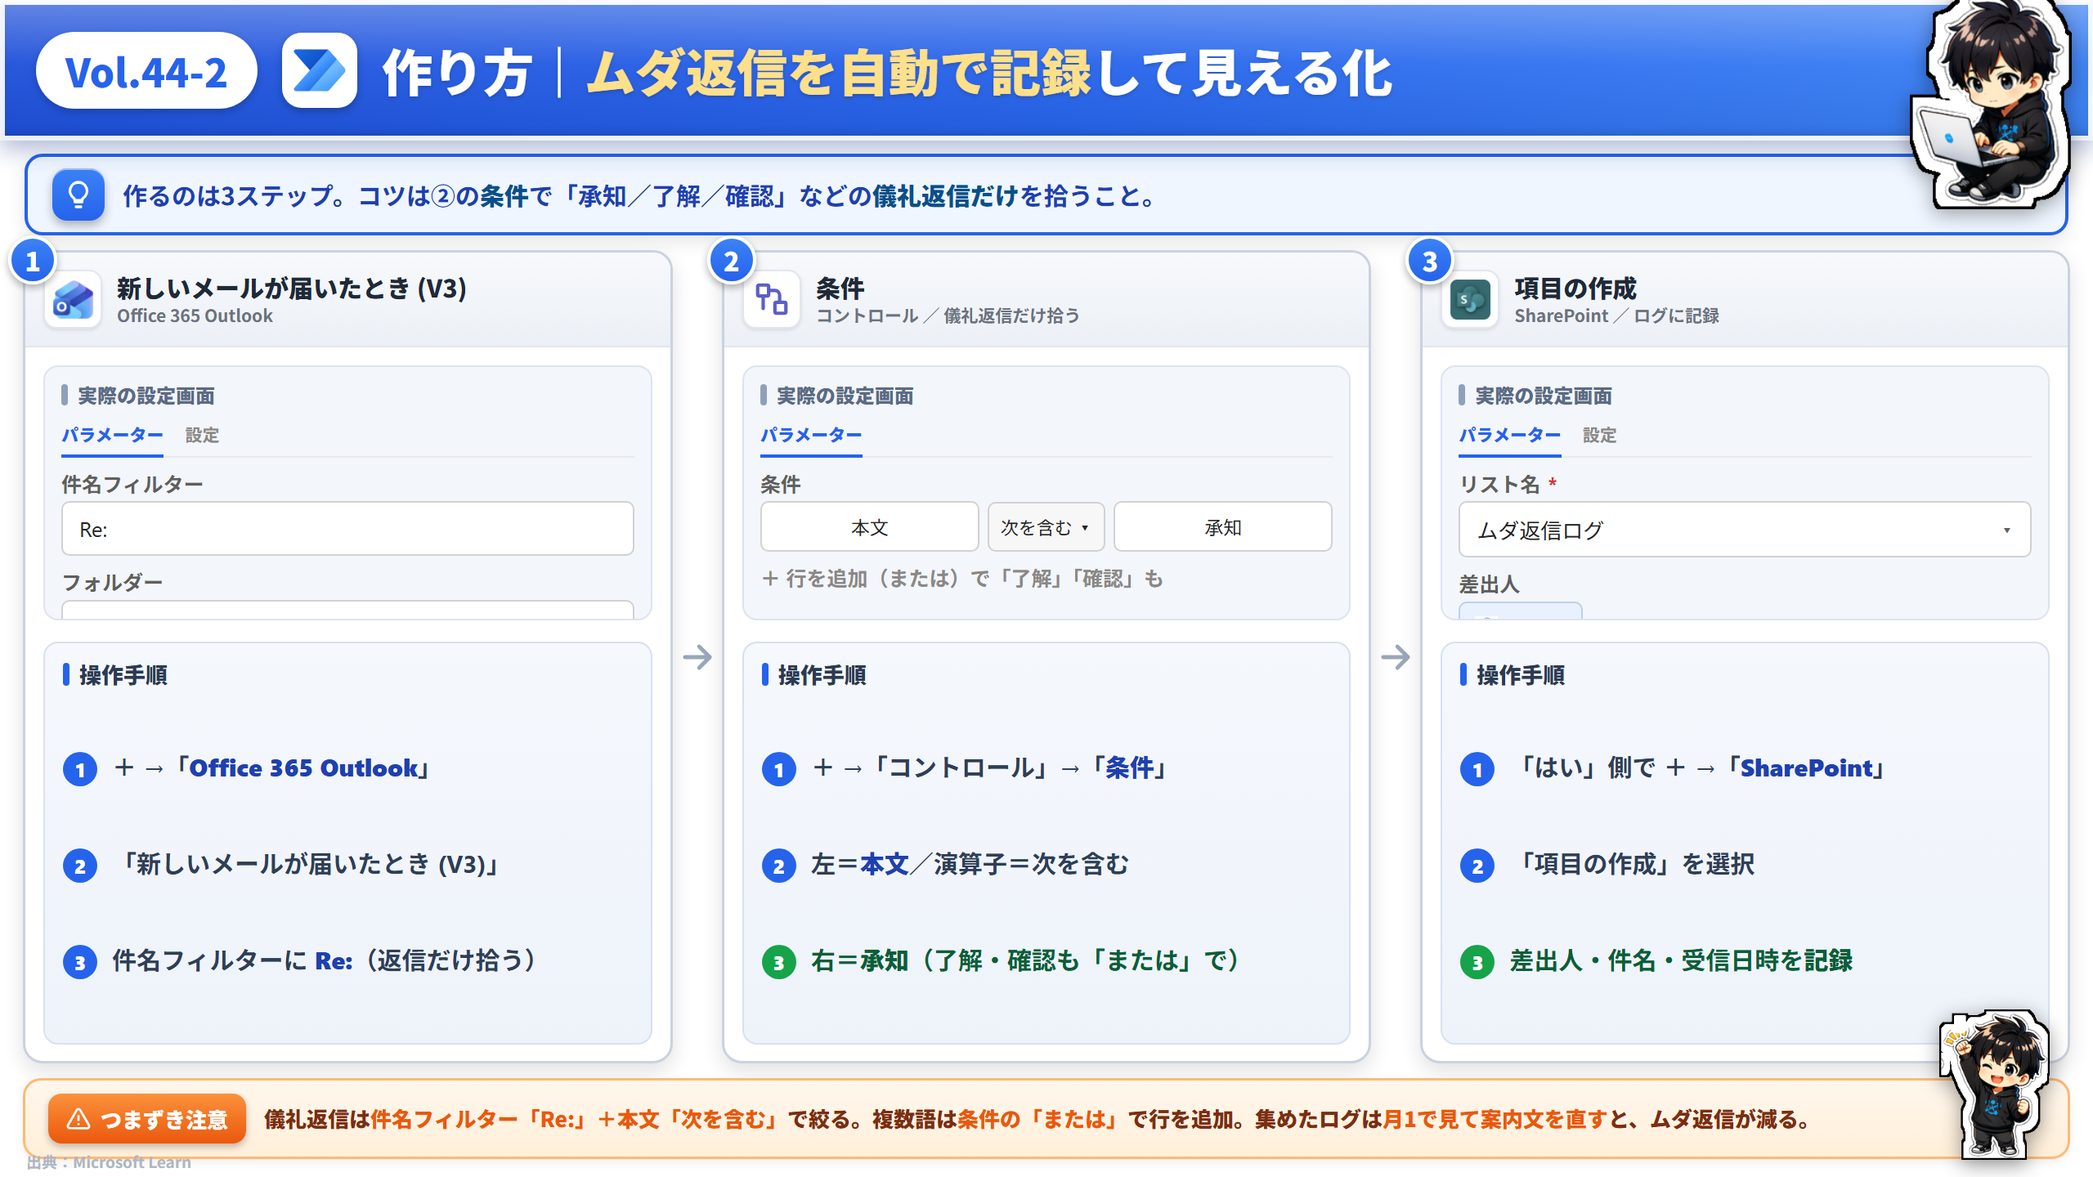
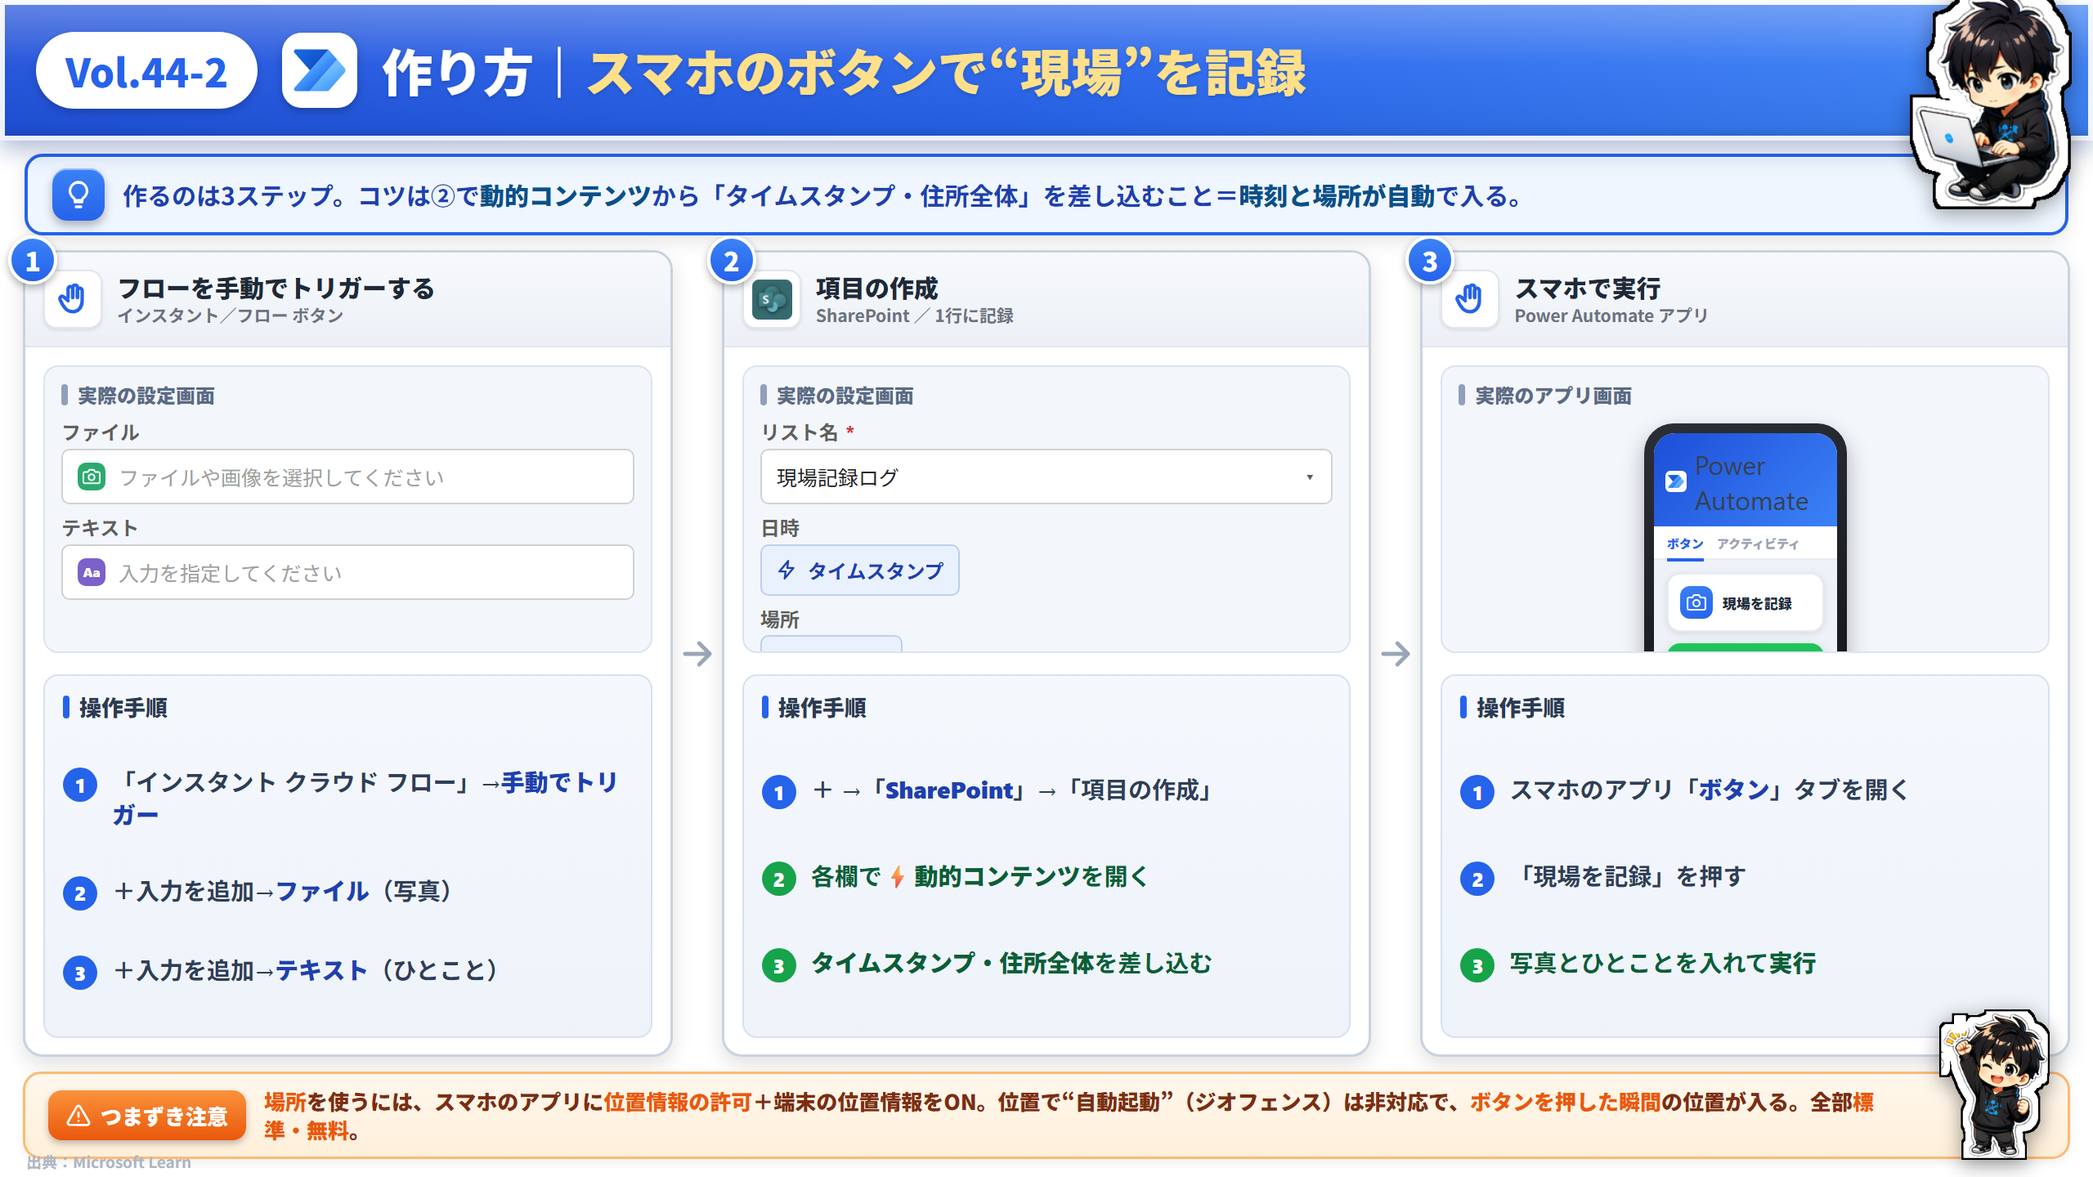
vol-44/44b スライドPNG再生成・vol-17 微修正を反映

diff --git a/assets/x/html/vol-44b/index.html b/assets/x/html/vol-44b/index.html
@@ -3,7 +3,7 @@
 <head>
 <meta charset="UTF-8">
 <meta name="viewport" content="width=1280, initial-scale=1">
-<title>X技術Tips Vol.44-2 ムダ返信を記録して見える化｜作り方</title>
+<title>X技術Tips Vol.44-2 スマホのボタンで現場記録｜作り方</title>
 <link rel="preconnect" href="https://fonts.googleapis.com">
 <link rel="preconnect" href="https://fonts.gstatic.com" crossorigin>
 <link href="https://fonts.googleapis.com/css2?family=Noto+Sans+JP:wght@400;500;700;900&display=swap" rel="stylesheet">
@@ -40,36 +40,48 @@
   .ch{display:flex;align-items:center;gap:9px;padding:9px 11px;min-height:58px;background:linear-gradient(180deg,#F7F9FC,#ECF0F6);border-bottom:1px solid #E1E6EF;}
   .ch .sq{flex:0 0 auto;width:36px;height:36px;border-radius:8px;background:#fff;border:1px solid #E1E6EF;display:flex;align-items:center;justify-content:center;overflow:hidden;box-shadow:0 1px 2px rgba(0,0,0,.1);}
   .ch .sq img{width:26px;height:26px;object-fit:contain;}
-  .ch .sq svg{width:23px;height:23px;color:#5B5FC7;}
+  .ch .sq svg{width:23px;height:23px;color:#2563EB;}
   .ch .nm{font-weight:900;font-size:15px;color:var(--ink);line-height:1.18;}
   .ch .nm small{display:block;font-weight:700;font-size:10.5px;color:var(--weak);margin-top:2px;}
 
   .cp{flex:1;font-family:'Segoe UI','Noto Sans JP',sans-serif;padding:9px 11px 10px;display:flex;flex-direction:column;gap:10px;}
-  .ptop{flex:0 0 156px;display:flex;flex-direction:column;gap:8px;overflow:hidden;background:#F3F6FB;border:1px solid #DCE4F0;border-radius:9px;padding:8px 10px;margin-top:2px;}
+  .ptop{flex:0 0 176px;display:flex;flex-direction:column;gap:7px;overflow:hidden;background:#F3F6FB;border:1px solid #DCE4F0;border-radius:9px;padding:8px 10px;margin-top:2px;}
   .sect{display:flex;align-items:center;gap:6px;font-size:12px;font-weight:900;color:#5A6B85;}
   .sect::before{content:"";width:4px;height:13px;border-radius:2px;background:#8FA0BC;}
-  .cptab{display:flex;gap:13px;border-bottom:1px solid #EAEAEA;padding-bottom:5px;}
-  .cptab span{font-size:10.5px;color:#8A8886;font-weight:600;}
-  .cptab span.on{color:#2563EB;font-weight:800;border-bottom:2px solid #2563EB;padding-bottom:5px;margin-bottom:-6px;}
   .fld{display:flex;flex-direction:column;gap:3px;}
-  .fld .l{font-size:12.5px;color:#605E5C;font-weight:700;line-height:1.25;}
+  .fld .l{font-size:12px;color:#605E5C;font-weight:700;line-height:1.2;}
   .fld .l .req{color:#D13438;margin-left:1px;}
-  .fld .v{border:1px solid #D1D1D1;border-radius:5px;padding:7px 10px;font-size:13px;color:#242424;background:#fff;display:flex;align-items:center;justify-content:space-between;gap:8px;}
-  .fld .v .cr{flex:0 0 auto;color:#605E5C;font-weight:900;font-size:10px;}
-  .fld .v .gr{flex:0 0 auto;width:14px;height:14px;color:#8A8886;}
+  .fld .v{border:1px solid #D1D1D1;border-radius:5px;padding:7px 9px;font-size:12.5px;color:#242424;background:#fff;display:flex;align-items:center;gap:8px;}
+  .fld .v .cr{margin-left:auto;flex:0 0 auto;color:#605E5C;font-weight:900;font-size:10px;}
   .fld .v.ph{color:#A19F9D;}
+  .fld .v .fi{flex:0 0 auto;width:17px;height:17px;border-radius:5px;display:flex;align-items:center;justify-content:center;color:#fff;padding:3px;}
+  .fld .v .fi.g{background:#2BAA6E;} .fld .v .fi.p{background:#7B61C9;}
   .dyn{display:inline-flex;align-items:center;gap:6px;background:#EAF1FE;border:1px solid #BBD0EE;border-radius:5px;padding:6px 9px;font-size:12px;font-weight:700;color:#1E40AF;align-self:flex-start;}
   .dyn img{width:14px;height:14px;object-fit:contain;}
-  /* 条件UI */
-  .cond{display:flex;align-items:center;gap:5px;}
-  .cond .cv{flex:1;border:1px solid #D1D1D1;border-radius:5px;padding:6px 7px;font-size:11.5px;color:#242424;background:#fff;text-align:center;min-width:0;}
-  .cond .cop{flex:0 0 auto;border:1px solid #D1D1D1;border-radius:5px;padding:6px 7px;font-size:11px;color:#242424;background:#F7F7F7;white-space:nowrap;}
+  .dyn svg{width:13px;height:13px;}
+
+  /* スマホ画面（列3） */
+  .miniphone{align-self:center;width:124px;height:158px;background:linear-gradient(160deg,#2B2F36,#15171B);border-radius:18px;padding:6px;box-shadow:0 6px 14px rgba(0,0,0,.3);position:relative;margin-top:2px;}
+  .miniphone .mscr{width:100%;height:100%;background:#EEF2F8;border-radius:13px;overflow:hidden;display:flex;flex-direction:column;}
+  .mtop{background:linear-gradient(135deg,#1D4ED8,#3B82F6);padding:8px 7px 6px;display:flex;align-items:center;gap:5px;}
+  .mtop img{width:13px;height:13px;object-fit:contain;background:#fff;border-radius:3px;padding:1px;}
+  .mtop span{color:#fff;font-weight:900;font-size:8px;}
+  .mtab{display:flex;gap:8px;padding:5px 8px 4px;background:#fff;border-bottom:1px solid #E7EBF1;}
+  .mtab span{font-size:7.5px;font-weight:800;color:#9AA3B0;}
+  .mtab span.on{color:#2563EB;border-bottom:2px solid #2563EB;padding-bottom:4px;margin-bottom:-6px;}
+  .mbody{flex:1;padding:8px 8px;display:flex;flex-direction:column;gap:7px;}
+  .mcard{background:#fff;border-radius:8px;padding:7px;box-shadow:0 1px 4px rgba(0,0,0,.1);display:flex;align-items:center;gap:6px;border:1px solid #E7EBF1;}
+  .mcard .mi{flex:0 0 auto;width:20px;height:20px;border-radius:6px;background:linear-gradient(160deg,#3B82F6,#2563EB);color:#fff;display:flex;align-items:center;justify-content:center;padding:4px;}
+  .mcard .mt{font-weight:900;font-size:8.5px;color:var(--ink);}
+  .mrun{background:linear-gradient(180deg,#22C55E,#16A34A);color:#fff;border-radius:8px;padding:8px;text-align:center;font-weight:900;font-size:9px;box-shadow:0 3px 7px rgba(22,163,74,.4);display:flex;align-items:center;justify-content:center;gap:4px;position:relative;}
+  .mrun svg{width:11px;height:11px;}
+  .mrun .mh{position:absolute;right:2px;bottom:-9px;width:22px;height:22px;}
 
   .howsteps{flex:1;margin-top:3px;background:linear-gradient(180deg,#F5F8FD,#EEF3FA);border:1px solid #D7E1F0;border-radius:9px;padding:9px 11px;display:flex;flex-direction:column;gap:7px;}
   .howsteps .hh{display:flex;align-items:center;gap:6px;font-size:13.5px;font-weight:900;color:#2B3A52;}
   .howsteps .hh::before{content:"";width:4px;height:14px;border-radius:2px;background:#2563EB;}
   .howsteps ol{list-style:none;display:flex;flex-direction:column;justify-content:space-evenly;flex:1;gap:7px;}
-  .howsteps li{display:flex;gap:9px;align-items:flex-start;font-size:15px;font-weight:700;color:#2F3E57;line-height:1.36;}
+  .howsteps li{display:flex;gap:9px;align-items:flex-start;font-size:14.5px;font-weight:700;color:#2F3E57;line-height:1.36;}
   .howsteps li .sn{flex:0 0 auto;width:21px;height:21px;border-radius:50%;background:#2563EB;color:#fff;font-size:12px;font-weight:900;display:flex;align-items:center;justify-content:center;margin-top:1px;}
   .howsteps li b{color:#1E40AF;}
   .howsteps li.key{color:#0B5E37;} .howsteps li.key .sn{background:#16A34A;} .howsteps li.key b{color:#0B5E37;}
@@ -91,7 +103,12 @@ const ICON={
  bulb:'<path d="M9 18h6"/><path d="M10 22h4"/><path d="M12 2a7 7 0 0 0-4 12.7c.6.5 1 1.3 1 2.1h6c0-.8.4-1.6 1-2.1A7 7 0 0 0 12 2z"/>',
  warn:'<path d="M10.3 3.3 1.8 18a2 2 0 0 0 1.7 3h17a2 2 0 0 0 1.7-3L13.7 3.3a2 2 0 0 0-3.4 0z"/><path d="M12 9v4M12 17h.01"/>',
  arrow:'<path d="M5 12h14M13 6l6 6-6 6"/>',
- cond:'<rect x="3" y="3" width="7" height="7" rx="1"/><rect x="14" y="14" width="7" height="7" rx="1"/><path d="M10 6.5h4a3 3 0 0 1 3 3v4.5M6.5 10v8"/>'
+ tap:'<path d="M9 11V5.5a1.5 1.5 0 0 1 3 0V11"/><path d="M12 11V4.5a1.5 1.5 0 0 1 3 0V11"/><path d="M15 11V6.5a1.5 1.5 0 0 1 3 0V13c0 3.5-2 7-6 7s-5-2.5-6.5-4.5L4 12.5a1.5 1.5 0 0 1 2.5-1.7L9 13"/>',
+ cam:'<path d="M23 19a2 2 0 0 1-2 2H3a2 2 0 0 1-2-2V8a2 2 0 0 1 2-2h4l2-3h6l2 3h4a2 2 0 0 1 2 2z"/><circle cx="12" cy="13" r="4"/>',
+ zap:'<path d="M13 2 3 14h7l-1 8 10-12h-7l1-8z"/>',
+ clock:'<circle cx="12" cy="12" r="9"/><path d="M12 7v5l3 2"/>',
+ pin:'<path d="M12 22s8-5.7 8-12a8 8 0 1 0-16 0c0 6.3 8 12 8 12z"/><circle cx="12" cy="10" r="3"/>',
+ hand:'<path d="M9 11V5.5a1.5 1.5 0 0 1 3 0V11"/><path d="M12 11V4.5a1.5 1.5 0 0 1 3 0V11"/><path d="M15 11V6.5a1.5 1.5 0 0 1 3 0V13c0 3.5-2 7-6 7s-5-2.5-6.5-4.5L4 12.5a1.5 1.5 0 0 1 2.5-1.7L9 13"/>'
 };
 const svg=(n)=>`<svg class="ic" viewBox="0 0 24 24" fill="none" stroke="currentColor" stroke-width="2.2" stroke-linecap="round" stroke-linejoin="round">${ICON[n]}</svg>`;
 
@@ -100,33 +117,32 @@ s.innerHTML=`
   <div class="titlebar">
     <div class="vol-pill">Vol.44-2</div>
     <img class="vol-logo" src="${A}icons/pa_logo.png" alt="">
-    <div class="title-text">作り方｜<span class="hl">ムダ返信を自動で記録</span>して見える化</div>
+    <div class="title-text">作り方｜<span class="hl">スマホのボタンで“現場”を記録</span></div>
     <img class="title-chara" src="${A}chara/chara_laptop.png" alt="">
   </div>
 
   <div class="concl">
     <div class="chip">${svg('bulb')}</div>
-    <div class="txt">作るのは3ステップ。コツは②の<b>条件</b>で「承知／了解／確認」などの<b>儀礼返信だけ</b>を拾うこと。</div>
+    <div class="txt">作るのは3ステップ。コツは②で<b>動的コンテンツ</b>から「タイムスタンプ・住所全体」を差し込むこと＝<b>時刻と場所が自動</b>で入る。</div>
   </div>
 
   <div class="cols">
     <div class="col">
       <div class="cnum">1</div>
       <div class="colcard">
-        <div class="ch"><span class="sq"><img src="${A}icons/pa_outlook.png" alt=""></span><span class="nm">新しいメールが届いたとき (V3)<small>Office 365 Outlook</small></span></div>
+        <div class="ch"><span class="sq">${svg('tap')}</span><span class="nm">フローを手動でトリガーする<small>インスタント／フロー ボタン</small></span></div>
         <div class="cp">
           <div class="ptop">
             <div class="sect">実際の設定画面</div>
-            <div class="cptab"><span class="on">パラメーター</span><span>設定</span></div>
-            <div class="fld"><span class="l">件名フィルター</span><span class="v"><span>Re:</span></span></div>
-            <div class="fld"><span class="l">フォルダー</span><span class="v"><span>受信トレイ</span><span class="cr">▾</span></span></div>
+            <div class="fld"><span class="l">ファイル</span><span class="v ph"><span class="fi g">${svg('cam')}</span>ファイルや画像を選択してください</span></div>
+            <div class="fld"><span class="l">テキスト</span><span class="v ph"><span class="fi p" style="font-size:8px;font-weight:900;">Aa</span>入力を指定してください</span></div>
           </div>
           <div class="howsteps">
             <div class="hh">操作手順</div>
             <ol>
-              <li><span class="sn">1</span><span>＋ →「<b>Office 365 Outlook</b>」</span></li>
-              <li><span class="sn">2</span><span>「新しいメールが届いたとき (V3)」</span></li>
-              <li><span class="sn">3</span><span>件名フィルターに <b>Re:</b>（返信だけ拾う）</span></li>
+              <li><span class="sn">1</span><span>「インスタント クラウド フロー」→<b>手動でトリガー</b></span></li>
+              <li><span class="sn">2</span><span>＋入力を追加→<b>ファイル</b>（写真）</span></li>
+              <li><span class="sn">3</span><span>＋入力を追加→<b>テキスト</b>（ひとこと）</span></li>
             </ol>
           </div>
         </div>
@@ -138,22 +154,20 @@ s.innerHTML=`
     <div class="col">
       <div class="cnum">2</div>
       <div class="colcard">
-        <div class="ch"><span class="sq">${svg('cond')}</span><span class="nm">条件<small>コントロール ／ 儀礼返信だけ拾う</small></span></div>
+        <div class="ch"><span class="sq"><img src="${A}icons/pa_sharepoint.png" alt=""></span><span class="nm">項目の作成<small>SharePoint ／ 1行に記録</small></span></div>
         <div class="cp">
           <div class="ptop">
             <div class="sect">実際の設定画面</div>
-            <div class="cptab"><span class="on">パラメーター</span></div>
-            <div class="fld"><span class="l">条件</span>
-              <div class="cond"><span class="cv">本文</span><span class="cop">次を含む ▾</span><span class="cv">承知</span></div>
-            </div>
-            <div class="fld"><span class="l" style="color:#8A8886;">＋ 行を追加（または）で「了解」「確認」も</span></div>
+            <div class="fld"><span class="l">リスト名 <span class="req">*</span></span><span class="v"><span>現場記録ログ</span><span class="cr">▾</span></span></div>
+            <div class="fld"><span class="l">日時</span><span class="dyn">${svg('zap')}タイムスタンプ</span></div>
+            <div class="fld"><span class="l">場所</span><span class="dyn">${svg('zap')}住所全体</span></div>
           </div>
           <div class="howsteps">
             <div class="hh">操作手順</div>
             <ol>
-              <li><span class="sn">1</span><span>＋ →「コントロール」→「<b>条件</b>」</span></li>
-              <li><span class="sn">2</span><span>左＝<b>本文</b>／演算子＝次を含む</span></li>
-              <li class="key"><span class="sn">3</span><span>右＝<b>承知</b>（了解・確認も「または」で）</span></li>
+              <li><span class="sn">1</span><span>＋ →「<b>SharePoint</b>」→「項目の作成」</span></li>
+              <li class="key"><span class="sn">2</span><span>各欄で⚡<b>動的コンテンツ</b>を開く</span></li>
+              <li class="key"><span class="sn">3</span><span><b>タイムスタンプ・住所全体</b>を差し込む</span></li>
             </ol>
           </div>
         </div>
@@ -165,20 +179,29 @@ s.innerHTML=`
     <div class="col">
       <div class="cnum">3</div>
       <div class="colcard">
-        <div class="ch"><span class="sq"><img src="${A}icons/pa_sharepoint.png" alt=""></span><span class="nm">項目の作成<small>SharePoint ／ ログに記録</small></span></div>
+        <div class="ch"><span class="sq" style="color:#16A34A;">${svg('tap')}</span><span class="nm">スマホで実行<small>Power Automate アプリ</small></span></div>
         <div class="cp">
-          <div class="ptop">
-            <div class="sect">実際の設定画面</div>
-            <div class="cptab"><span class="on">パラメーター</span><span>設定</span></div>
-            <div class="fld"><span class="l">リスト名 <span class="req">*</span></span><span class="v"><span>ムダ返信ログ</span><span class="cr">▾</span></span></div>
-            <div class="fld"><span class="l">差出人</span><span class="dyn"><img src="${A}icons/pa_outlook.png" alt="">差出人</span></div>
+          <div class="ptop" style="align-items:stretch;">
+            <div class="sect">実際のアプリ画面</div>
+            <div class="miniphone">
+              <div class="mscr">
+                <div class="mtop"><img src="${A}icons/pa_logo.png" alt="">Power Automate</div>
+                <div class="mtab"><span class="on">ボタン</span><span>アクティビティ</span></div>
+                <div class="mbody">
+                  <div class="mcard"><span class="mi">${svg('cam')}</span><span class="mt">現場を記録</span></div>
+                  <div class="mrun">${svg('zap')}実行
+                    <svg class="mh" viewBox="0 0 24 24" fill="#FFD54A" stroke="#7A4A00" stroke-width="1.5" stroke-linecap="round" stroke-linejoin="round">${ICON.hand}</svg>
+                  </div>
+                </div>
+              </div>
+            </div>
           </div>
           <div class="howsteps">
             <div class="hh">操作手順</div>
             <ol>
-              <li><span class="sn">1</span><span>「はい」側で ＋ →「<b>SharePoint</b>」</span></li>
-              <li><span class="sn">2</span><span>「項目の作成」を選択</span></li>
-              <li class="key"><span class="sn">3</span><span>差出人・件名・受信日時を<b>記録</b></span></li>
+              <li><span class="sn">1</span><span>スマホのアプリ「<b>ボタン</b>」タブを開く</span></li>
+              <li><span class="sn">2</span><span>「現場を記録」を押す</span></li>
+              <li class="key"><span class="sn">3</span><span>写真とひとことを入れて<b>実行</b></span></li>
             </ol>
           </div>
         </div>
@@ -188,7 +211,7 @@ s.innerHTML=`
 
   <div class="pitfall">
     <div class="pl">${svg('warn')}つまずき注意</div>
-    <div class="px">儀礼返信は<b>件名フィルター「Re:」＋本文「次を含む」</b>で絞る。複数語は<b>条件の「または」</b>で行を追加。集めたログは<b>月1で見て案内文を直す</b>と、ムダ返信が減る。</div>
+    <div class="px"><b>場所</b>を使うには、スマホのアプリに<b>位置情報の許可</b>＋端末の位置情報をON。位置で“自動起動”（ジオフェンス）は非対応で、<b>ボタンを押した瞬間</b>の位置が入る。全部<b>標準・無料</b>。</div>
     <img class="pit-chara" src="${A}chara/chara_guts.png" alt="">
   </div>
   <div class="src">出典：Microsoft Learn</div>

diff --git a/slides/vol-17/index.html b/slides/vol-17/index.html
@@ -50,14 +50,14 @@
   .title-slide .slide-title,.anchor .slide-title{color:var(--text);}
   .anchor .slide-title{color:#78350f;}
   .title-slide .slide-title small,.anchor .slide-title small{color:var(--muted);}
-  .slide-body{flex:1;padding:22px 48px 0;display:flex;flex-direction:column;font-size:20px;}
+  .slide-body{flex:1;padding:24px 48px 0;display:flex;flex-direction:column;font-size:22px;}
   .slide-footer{margin-top:auto;padding:14px 48px 18px;display:flex;justify-content:space-between;
     align-items:center;font-size:14px;color:var(--hint);background:#fff;}
   .slide-footer .chat-reminder{background:var(--blue-bg);color:var(--blue-text);padding:7px 16px;
     border-radius:20px;font-weight:600;font-size:14px;}
-  .cards-3{display:grid;grid-template-columns:repeat(3,1fr);gap:20px;margin-top:16px;}
-  .cards-2{display:grid;grid-template-columns:repeat(2,1fr);gap:22px;margin-top:16px;}
-  .card{background:#fff;border:1px solid var(--border);border-radius:14px;padding:20px 22px;box-shadow:0 2px 6px rgba(0,0,0,.04);}
+  .cards-3{display:grid;grid-template-columns:repeat(3,1fr);gap:22px;margin-top:20px;}
+  .cards-2{display:grid;grid-template-columns:repeat(2,1fr);gap:26px;margin-top:20px;}
+  .card{background:#fff;border:1px solid var(--border);border-radius:14px;padding:24px 28px;box-shadow:0 2px 6px rgba(0,0,0,.04);}
   .card.blue{background:var(--blue-bg);border-color:rgba(42,125,212,.25);}
   .card.green{background:var(--green-bg);border-color:rgba(6,95,70,.25);}
   .card.yellow{background:var(--yellow-bg);border-color:rgba(146,64,14,.25);}
